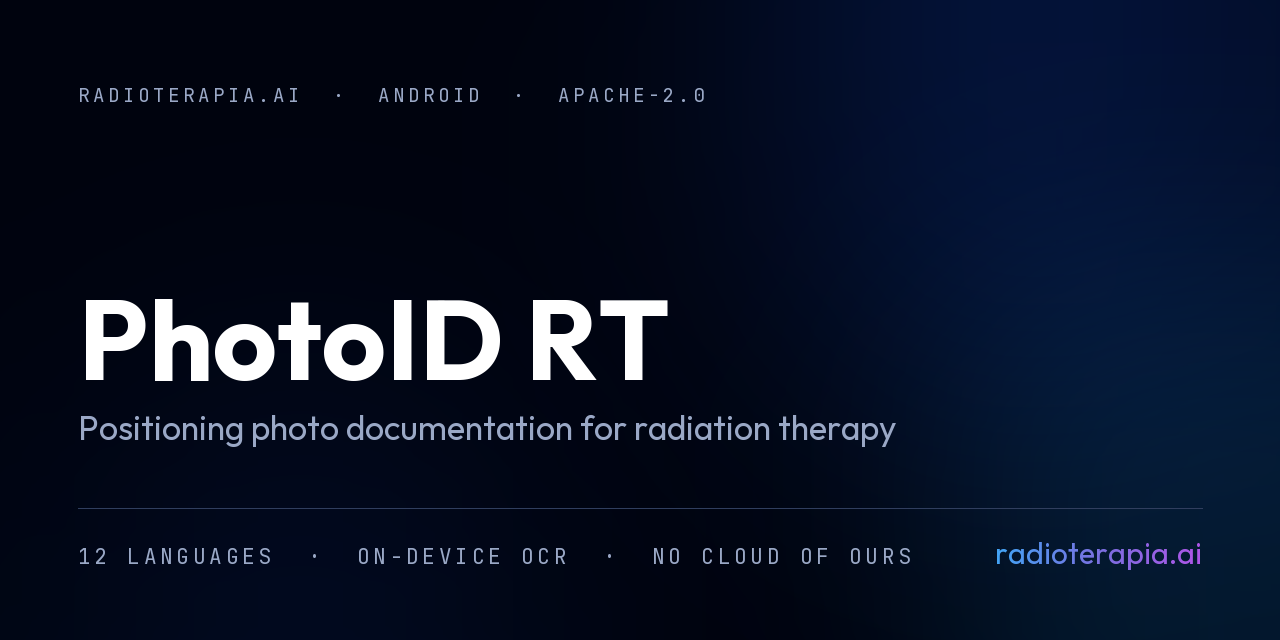
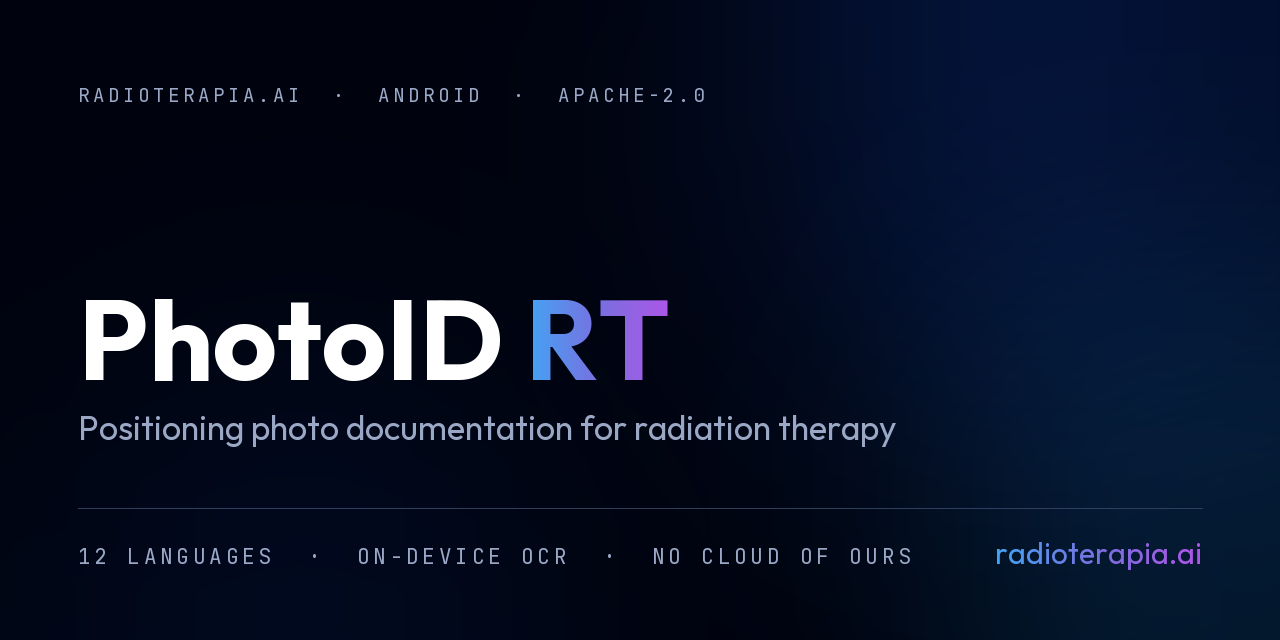
feat: o logotipo e "PhotoID" em branco e "RT" no gradiente
Regra dada pelo Henrique, e e a mesma construcao do logotipo do ecossistema:
"radioterapia" em branco e ".ai" em gradiente. Duas palavras, um contraste, e o
olho separa o produto da familia sem precisar de legenda.

O cabecalho do repositorio passa a segui-la.

A regra ficou registrada no Marca.kt, que e o lugar declarado dela — "tudo o que
carrega a marca e e visivel para o usuario se resolve aqui". Junto com ela,
entrou a constante do gradiente e o registro de uma DIVERGENCIA que ainda nao
foi resolvida:

  identidade-visual.md  acento @radioterapia.ai  #0A2A6B -> #24D3EE  azul->ciano
  colors.xml            "identico ao logo"      #42A5F5 -> #B254E8   azul->roxo

O logotipo renderizado em assets/marca/logotipo_9x16.png e azul->roxo, entao e
esse que as pecas usam. Um dos dois documentos envelheceu, e anotar isso agora
custa tres linhas — descobrir depois, com peca publicada na cor errada, custa
outra coisa.

A tela Sobre continua desenhando o nome chapado: pinta-lo exigiria
SpannableString com LinearGradient, e e alteracao de interface que ninguem
pediu.

Changed region(s): [[0.4062, 0.4688, 0.5312, 0.5938]]

diff --git a/app/src/main/java/com/radioterapia/ai/branding/Marca.kt b/app/src/main/java/com/radioterapia/ai/branding/Marca.kt
@@ -29,8 +29,39 @@ package com.radioterapia.ai.branding
  */
 object Marca {
 
-    /** O nome do produto, para uso em caminho de arquivo e nome de pasta. */
+    /**
+     * O nome do produto, para uso em caminho de arquivo e nome de pasta.
+     *
+     * COMO ELE SE ESCREVE QUANDO É LOGOTIPO: **"PhotoID" em branco e "RT" no
+     * gradiente** — a mesma construção do logotipo do ecossistema, onde
+     * "radioterapia" é branco e ".ai" recebe o gradiente. Duas palavras, um
+     * contraste, e o olho separa o produto da família sem precisar de legenda.
+     *
+     * O gradiente é o de [GRADIENTE_LOGOTIPO], que é o que `colors.xml` declara
+     * como idêntico ao logo.
+     *
+     * Aqui a constante é texto puro, porque caminho de arquivo não tem cor. A
+     * regra vale para peça gráfica — o cabeçalho do repositório a segue. A tela
+     * Sobre ainda desenha o nome chapado: mudá-la exige `SpannableString` com
+     * `LinearGradient`, e é alteração de interface que ninguém pediu.
+     */
     const val NOME = "PhotoID RT"
+
+    /**
+     * O gradiente do logotipo, espelho de `grad_start`/`grad_mid`/`grad_end` em
+     * `res/values/colors.xml`.
+     *
+     * ATENÇÃO À DIVERGÊNCIA, que ainda não foi resolvida: a identidade do
+     * ecossistema (`references/identidade-visual.md` da skill de marketing)
+     * define o acento do perfil @radioterapia.ai como `#0A2A6B → #24D3EE`,
+     * azul → ciano. O `colors.xml` declara `#42A5F5 → #7B6FE0 → #B254E8`,
+     * azul → roxo, dizendo-o idêntico ao logo — e o logotipo renderizado em
+     * `assets/marca/logotipo_9x16.png` é, de fato, azul → roxo.
+     *
+     * Um dos dois documentos envelheceu. Enquanto não se sabe qual, as peças
+     * usam este, que é o que o logotipo mostra.
+     */
+    val GRADIENTE_LOGOTIPO = listOf(0xFF42A5F5.toInt(), 0xFF7B6FE0.toInt(), 0xFFB254E8.toInt())
 
     /** O nome do ecossistema. Também é a marca registrada. */
     const val ECOSSISTEMA = "Radioterapia.AI"
